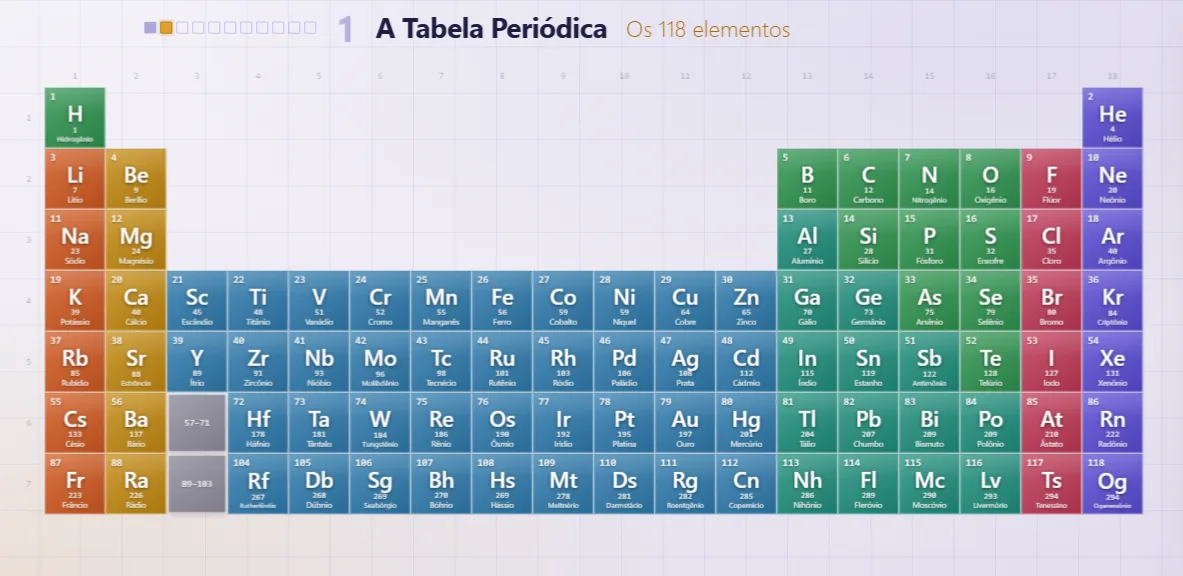
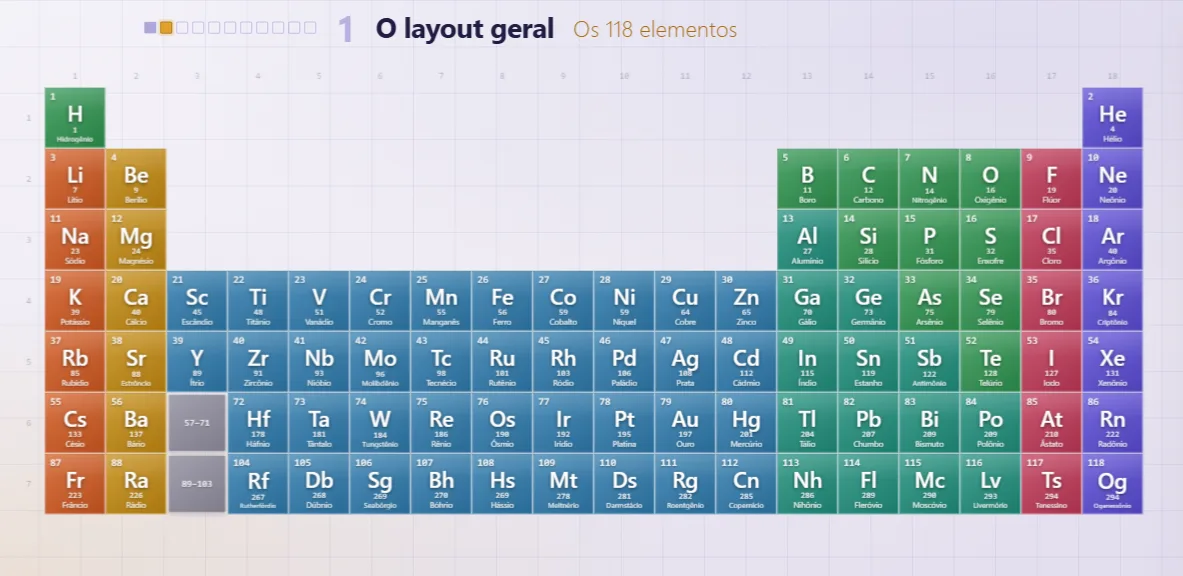
v15.7 · Slide 1: o título passa a O layout geral; fotos do carrossel refeitas

Changed region(s): [[0.3043, 0.0312, 0.6695, 0.0938]]

diff --git a/tabela-periodica.html b/tabela-periodica.html
@@ -2389,7 +2389,7 @@ const SLIDES = [
     autor:'Designed by Prof. Amauri Junior' },
 
   /* 'sumario': o nome do capítulo no sumário, quando não é o título */
-  { title:'A Tabela Periódica',
+  { title:'O layout geral',
     subtitle:'Os 118 elementos',
     sumario:'Layout geral' },
 
@@ -2437,7 +2437,7 @@ const SLIDES = [
    worker recebe-a no endereço com que é registado (sw.js?v=…). Mudando
    este texto, muda o endereço, o aparelho instala o serviço novo e o
    cache velho vai-se embora — não há uma segunda versão para esquecer. */
-const VERSAO = 'v15.6';
+const VERSAO = 'v15.7';
 
 /* A CAPA NOVA — a ideia do Claude Design: fundo escuro, o título grande e
    claro à esquerda, a tabelinha apagada ao fundo à direita e o sódio, o
